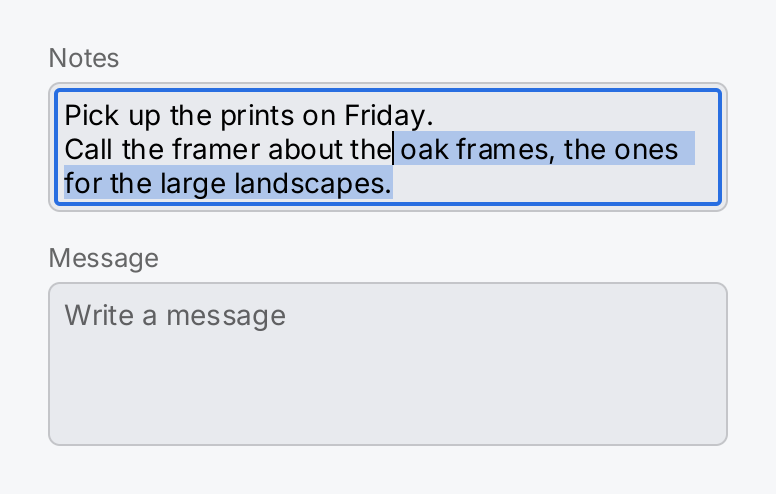
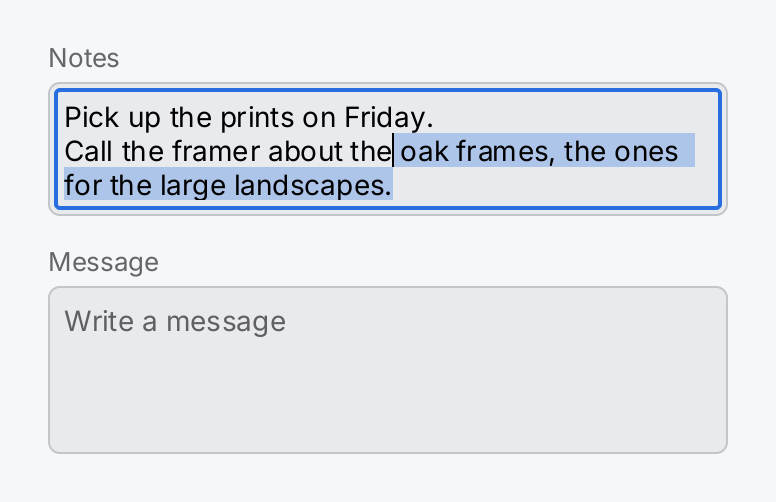
fix(ui): cut scrolled text at the padding, not between border and ring
A text area scrolled part way and a text field scrolled sideways drew their
text into the padding, up to the bounds, and the focus ring sits inside the
border, so a cut line showed squeezed between the two contours. The text is
now clipped to the content box, the inner edge of the padding, as Android's
TextView clips it: border, gap, ring, gap, text. The field clips sideways
only, its line being centred. The scroll indicator of the area moves into
the room between the ring and the text, and the area's padding is eight on
every side, so that the gaps are the same all round.

diff --git a/ui/textarea.go b/ui/textarea.go
@@ -123,7 +123,7 @@ func (v TextAreaView) Build(*gift.BuildContext) gift.Element {
 		ed:          v.ed,
 		fr:          v.frame,
 		st:          st,
-		pad:         geom.Insets{Top: 7, Right: 8, Bottom: 7, Left: 8},
+		pad:         geom.InsetsAll(8),
 		placeholder: v.placeholder,
 		onChange:    v.onChange,
 		bind:        v.bind,
@@ -377,7 +377,11 @@ func (n *textAreaNode) revealCaret() {
 
 // --- paint ----------------------------------------------------------------------
 
-// Paint draws the area in the order of [textFieldNode.Paint].
+// Paint draws the area in the order of [textFieldNode.Paint], with the lines
+// clipped to the content box for the reason given there: a line scrolled
+// half out is cut at the inner edge of the padding, not drawn between the
+// border and the focus ring. The scroll indicator stands in the padding on
+// the right, between the ring and the text, so that it covers neither.
 func (n *textAreaNode) Paint(ctx *gift.PaintContext) {
 	assertResolvedBorder(n.focusRing, "the focus ring of a TextArea")
 	ia := ctx.Interaction()
@@ -387,9 +391,11 @@ func (n *textAreaNode) Paint(ctx *gift.PaintContext) {
 	}
 	b := ctx.Bounds()
 	paintBackground(ctx, st, b)
-	ctx.PushClip(ctx.DeviceBounds())
+	box := n.inner.Translate(b.Min)
+	ctx.PushClip(deviceRect(ctx, box))
 	n.paintContent(ctx, b, ia)
 	ctx.PopClip()
+	n.paintIndicator(ctx, b, box)
 	paintBorder(ctx, st, b)
 	if ia.FocusVisible && !ia.Disabled && n.focusRing.IsVisible() {
 		paintBorder(ctx, styleSpec{border: n.focusRing, radius: focusRingRadius(st.radius)}, focusRingRect(b))
@@ -456,13 +462,26 @@ func (n *textAreaNode) paintContent(ctx *gift.PaintContext, b geom.Rect, ia gift
 		ctx.Add(render.Op{Kind: render.OpFillRect, Bounds: geom.Rc(cx, top, cx+caretWidth, top+lh), Color: n.caretColor})
 	}
 
-	// The scroll indicator, for as long as a scroll view shows its own.
-	if ms := n.maxScroll(p); ms > 0 && ctx.Now()-n.ed.scrolledAt < gift.ScrollIndicatorLinger && n.ed.scrolledAt > 0 {
-		track := b.Inset(geom.Insets{Top: 3, Bottom: 3})
-		th := max(24, track.Height()*n.inner.Height()/(n.inner.Height()+ms))
-		ty := track.Min.Y + (track.Height()-th)*n.ed.scrollY/ms
-		ctx.Add(render.Op{Kind: render.OpFillRoundRect, Bounds: geom.Rc(b.Max.X-6, ty, b.Max.X-3, ty+th), Color: n.indicator, CornerRadius: 1.5})
+}
+
+// paintIndicator draws the scroll indicator for as long as a scroll view
+// shows its own: two pixels wide, beside the content box and as tall as it,
+// in the middle of the room between the box and the inner edge of the focus
+// ring, or of the bounds where the padding is too thin for that.
+func (n *textAreaNode) paintIndicator(ctx *gift.PaintContext, b, box geom.Rect) {
+	p := n.para()
+	ms := n.maxScroll(p)
+	if ms <= 0 || n.ed.scrolledAt == 0 || ctx.Now()-n.ed.scrolledAt >= gift.ScrollIndicatorLinger {
+		return
 	}
+	ring := b.Max.X - focusRingGap - n.focusRing.Width
+	mid := (max(box.Max.X, min(ring, b.Max.X)) + box.Max.X) / 2
+	if ring-box.Max.X < 2 {
+		mid = b.Max.X - 2
+	}
+	th := max(24, box.Height()*n.inner.Height()/(n.inner.Height()+ms))
+	ty := box.Min.Y + (box.Height()-th)*n.ed.scrollY/ms
+	ctx.Add(render.Op{Kind: render.OpFillRoundRect, Bounds: geom.Rc(mid-1, ty, mid+1, ty+th), Color: n.indicator, CornerRadius: 1})
 }
 
 // paintLines copies the glyphs of the lines of p that fall inside b into the

diff --git a/ui/textfield.go b/ui/textfield.go
@@ -735,10 +735,21 @@ func (n *textFieldNode) clampScroll() {
 // background, content, border — with the selection under the glyphs, the caret
 // over them, and the focus ring last of all.
 //
-// The content is clipped to the bounds and the clip is pushed here rather than
-// left to gift, for the reason [textNode.Paint] gives: the content of this
-// node is its glyphs and not its children, so [gift.PaintContext.PaintChildren],
-// where gift would apply [gift.Element.Clip], is never reached.
+// The content is clipped and the clip is pushed here rather than left to
+// gift, for the reason [textNode.Paint] gives: the content of this node is its
+// glyphs and not its children, so [gift.PaintContext.PaintChildren], where
+// gift would apply [gift.Element.Clip], is never reached.
+//
+// # Why the clip is the content box and not the bounds
+//
+// It was the bounds, and text scrolled out to the left was drawn in the
+// padding, between the border and the focus ring, which sits inside the
+// border; see [focusRingGap]. A cut glyph squeezed between two contours looks
+// broken. iOS has no such ring to collide with, and macOS and the web draw
+// theirs outside the control; with the ring inside, the clean cut is at the
+// inner edge of the padding, which is where Android's TextView makes it. The
+// clip is horizontal only: the line is centred vertically, and a field
+// shorter than its line keeps clipping at its bounds as before.
 func (n *textFieldNode) Paint(ctx *gift.PaintContext) {
 	// In front of the focus ring gate below; see [assertResolved] and
 	// [buttonNode.Paint], which has the same gate for the same reason.
@@ -752,7 +763,8 @@ func (n *textFieldNode) Paint(ctx *gift.PaintContext) {
 	b := ctx.Bounds()
 	paintBackground(ctx, st, b)
 
-	ctx.PushClip(ctx.DeviceBounds())
+	box := geom.Rc(b.Min.X+n.pad.Left, b.Min.Y, b.Max.X-n.pad.Right, b.Max.Y)
+	ctx.PushClip(deviceRect(ctx, box))
 	n.paintContent(ctx, b, ia)
 	ctx.PopClip()
 

diff --git a/ui/textarea_test.go b/ui/textarea_test.go
@@ -261,3 +261,39 @@ func TestAFingerScrollsTheLinesAndAMouseSelectsThem(t *testing.T) {
 		t.Fatalf("a mouse drag down three lines selected %d..%d", lo, hi)
 	}
 }
+
+// TestScrolledTextIsCutAtThePaddingNotAtTheBorder pins the clip of the
+// lines: a line scrolled half out must not show between the border and the
+// focus ring, which sits inside the border.
+func TestScrolledTextIsCutAtThePaddingNotAtTheBorder(t *testing.T) {
+	f := newArea(t, "1\n2\n3\n4\n5\n6\n7\n8", func(v ui.TextAreaView) ui.TextAreaView { return v.Lines(3, 3) })
+	f.h.Wheel(centreOf(f.node().Bounds()), geom.Pt(0, -0.3))
+	b := f.node().Bounds()
+	l := f.h.List()
+	seen := false
+	for _, op := range f.h.Ops() {
+		if op.Kind != render.OpGlyphs {
+			continue
+		}
+		seen = true
+		c := l.Clip(op.Clip)
+		if c.Min.Y < b.Min.Y+8 || c.Max.Y > b.Max.Y-8 || c.Min.X < b.Min.X+8 || c.Max.X > b.Max.X-8 {
+			t.Fatalf("the lines are clipped to %v, which reaches into the padding of the area at %v", c, b)
+		}
+	}
+	if !seen {
+		t.Fatal("no lines drawn")
+	}
+	// The single line field cuts its scrolled text at its side padding.
+	g := newField(t, "a value much longer than the field is wide, so that it scrolls", nil)
+	g.node().Focus()
+	g.h.Key(gift.KeyEnd)
+	fb := g.node().Bounds()
+	for _, op := range g.h.Ops() {
+		if op.Kind == render.OpGlyphs {
+			if c := g.h.List().Clip(op.Clip); c.Min.X < fb.Min.X+fieldPadLeft || c.Max.X > fb.Max.X-fieldPadLeft {
+				t.Fatalf("the field's text is clipped to %v, which reaches into its padding at %v", c, fb)
+			}
+		}
+	}
+}

diff --git a/ui/popover.go b/ui/popover.go
@@ -308,6 +308,21 @@ func (n *panelNode) paintArrow(ctx *gift.PaintContext, c Color) {
 	ctx.PopTransform()
 }
 
+// deviceRect is [deviceMapping] for one rectangle, without the closure, for
+// a painter on the frame path, which must not allocate.
+func deviceRect(ctx *gift.PaintContext, r geom.Rect) geom.Rect {
+	b, db := ctx.Bounds(), ctx.DeviceBounds()
+	sx, sy := float32(1), float32(1)
+	if b.Width() > 0 {
+		sx = db.Width() / b.Width()
+	}
+	if b.Height() > 0 {
+		sy = db.Height() / b.Height()
+	}
+	return geom.Rc(db.Min.X+(r.Min.X-b.Min.X)*sx, db.Min.Y+(r.Min.Y-b.Min.Y)*sy,
+		db.Min.X+(r.Max.X-b.Min.X)*sx, db.Min.Y+(r.Max.Y-b.Min.Y)*sy)
+}
+
 // deviceMapping returns the function that maps a rectangle in the local space
 // of the node being painted into device space, the space clips are in: the
 // two are a scale and an offset apart, the density and the scroll offsets
